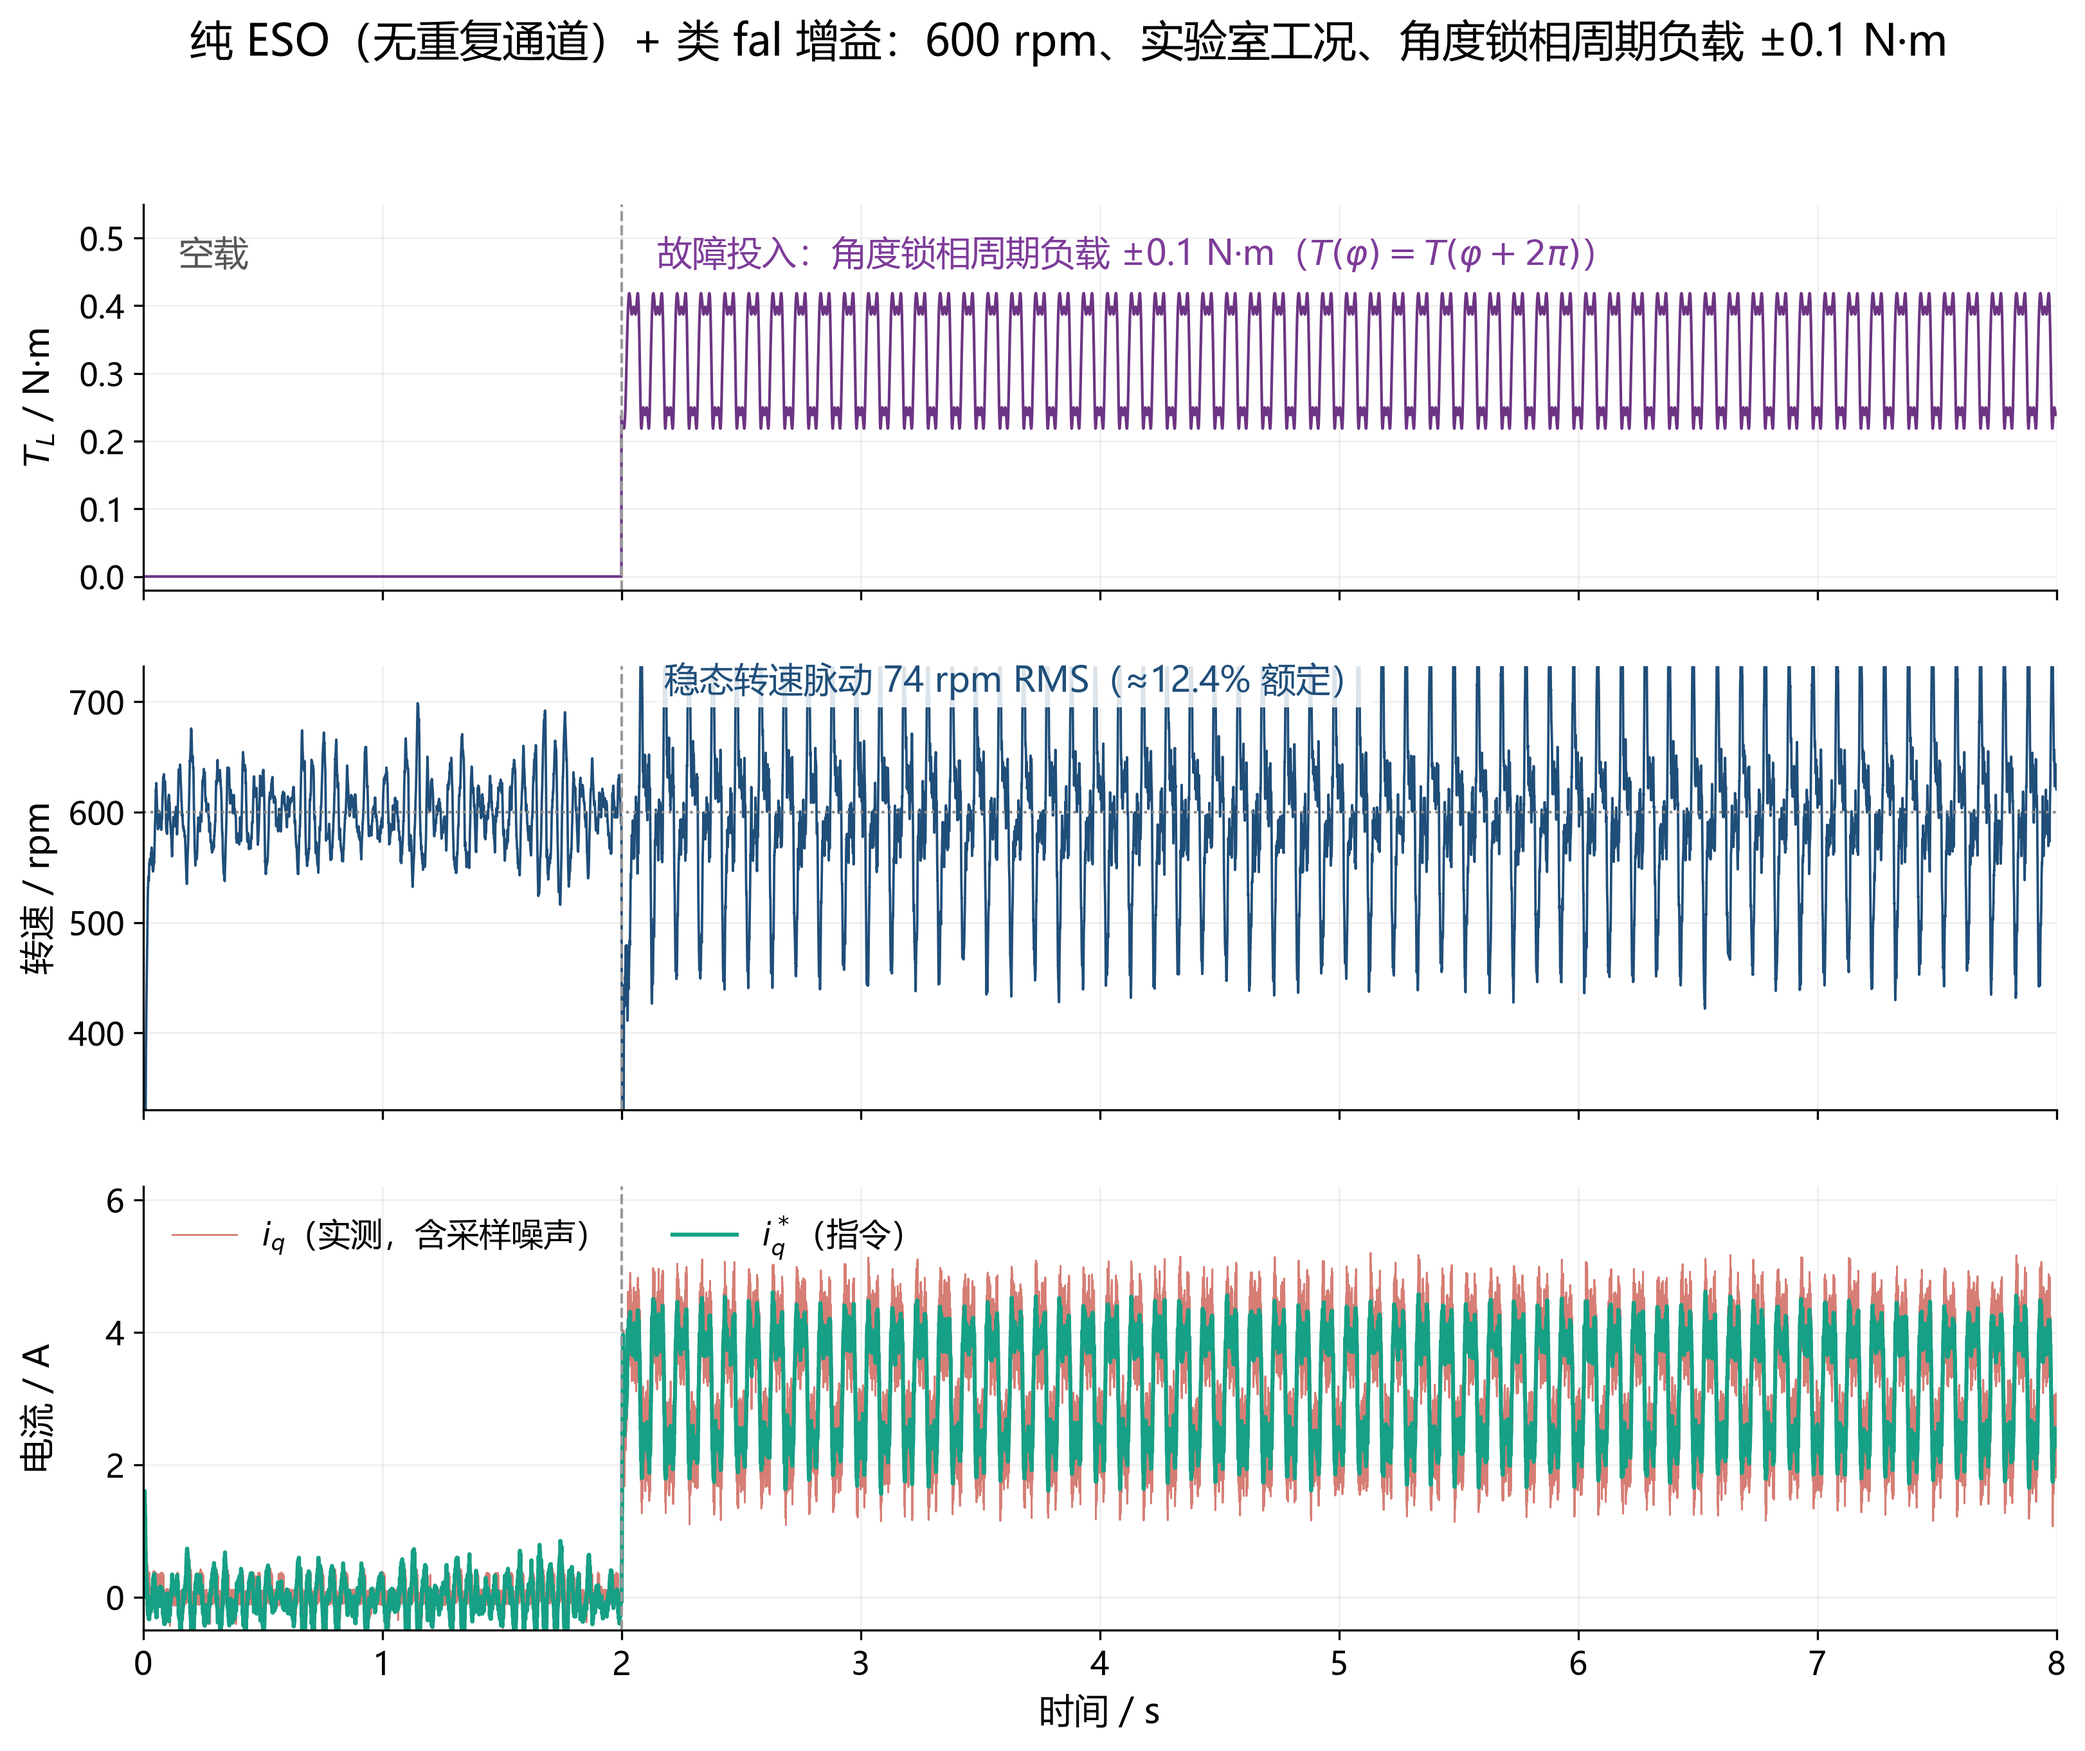
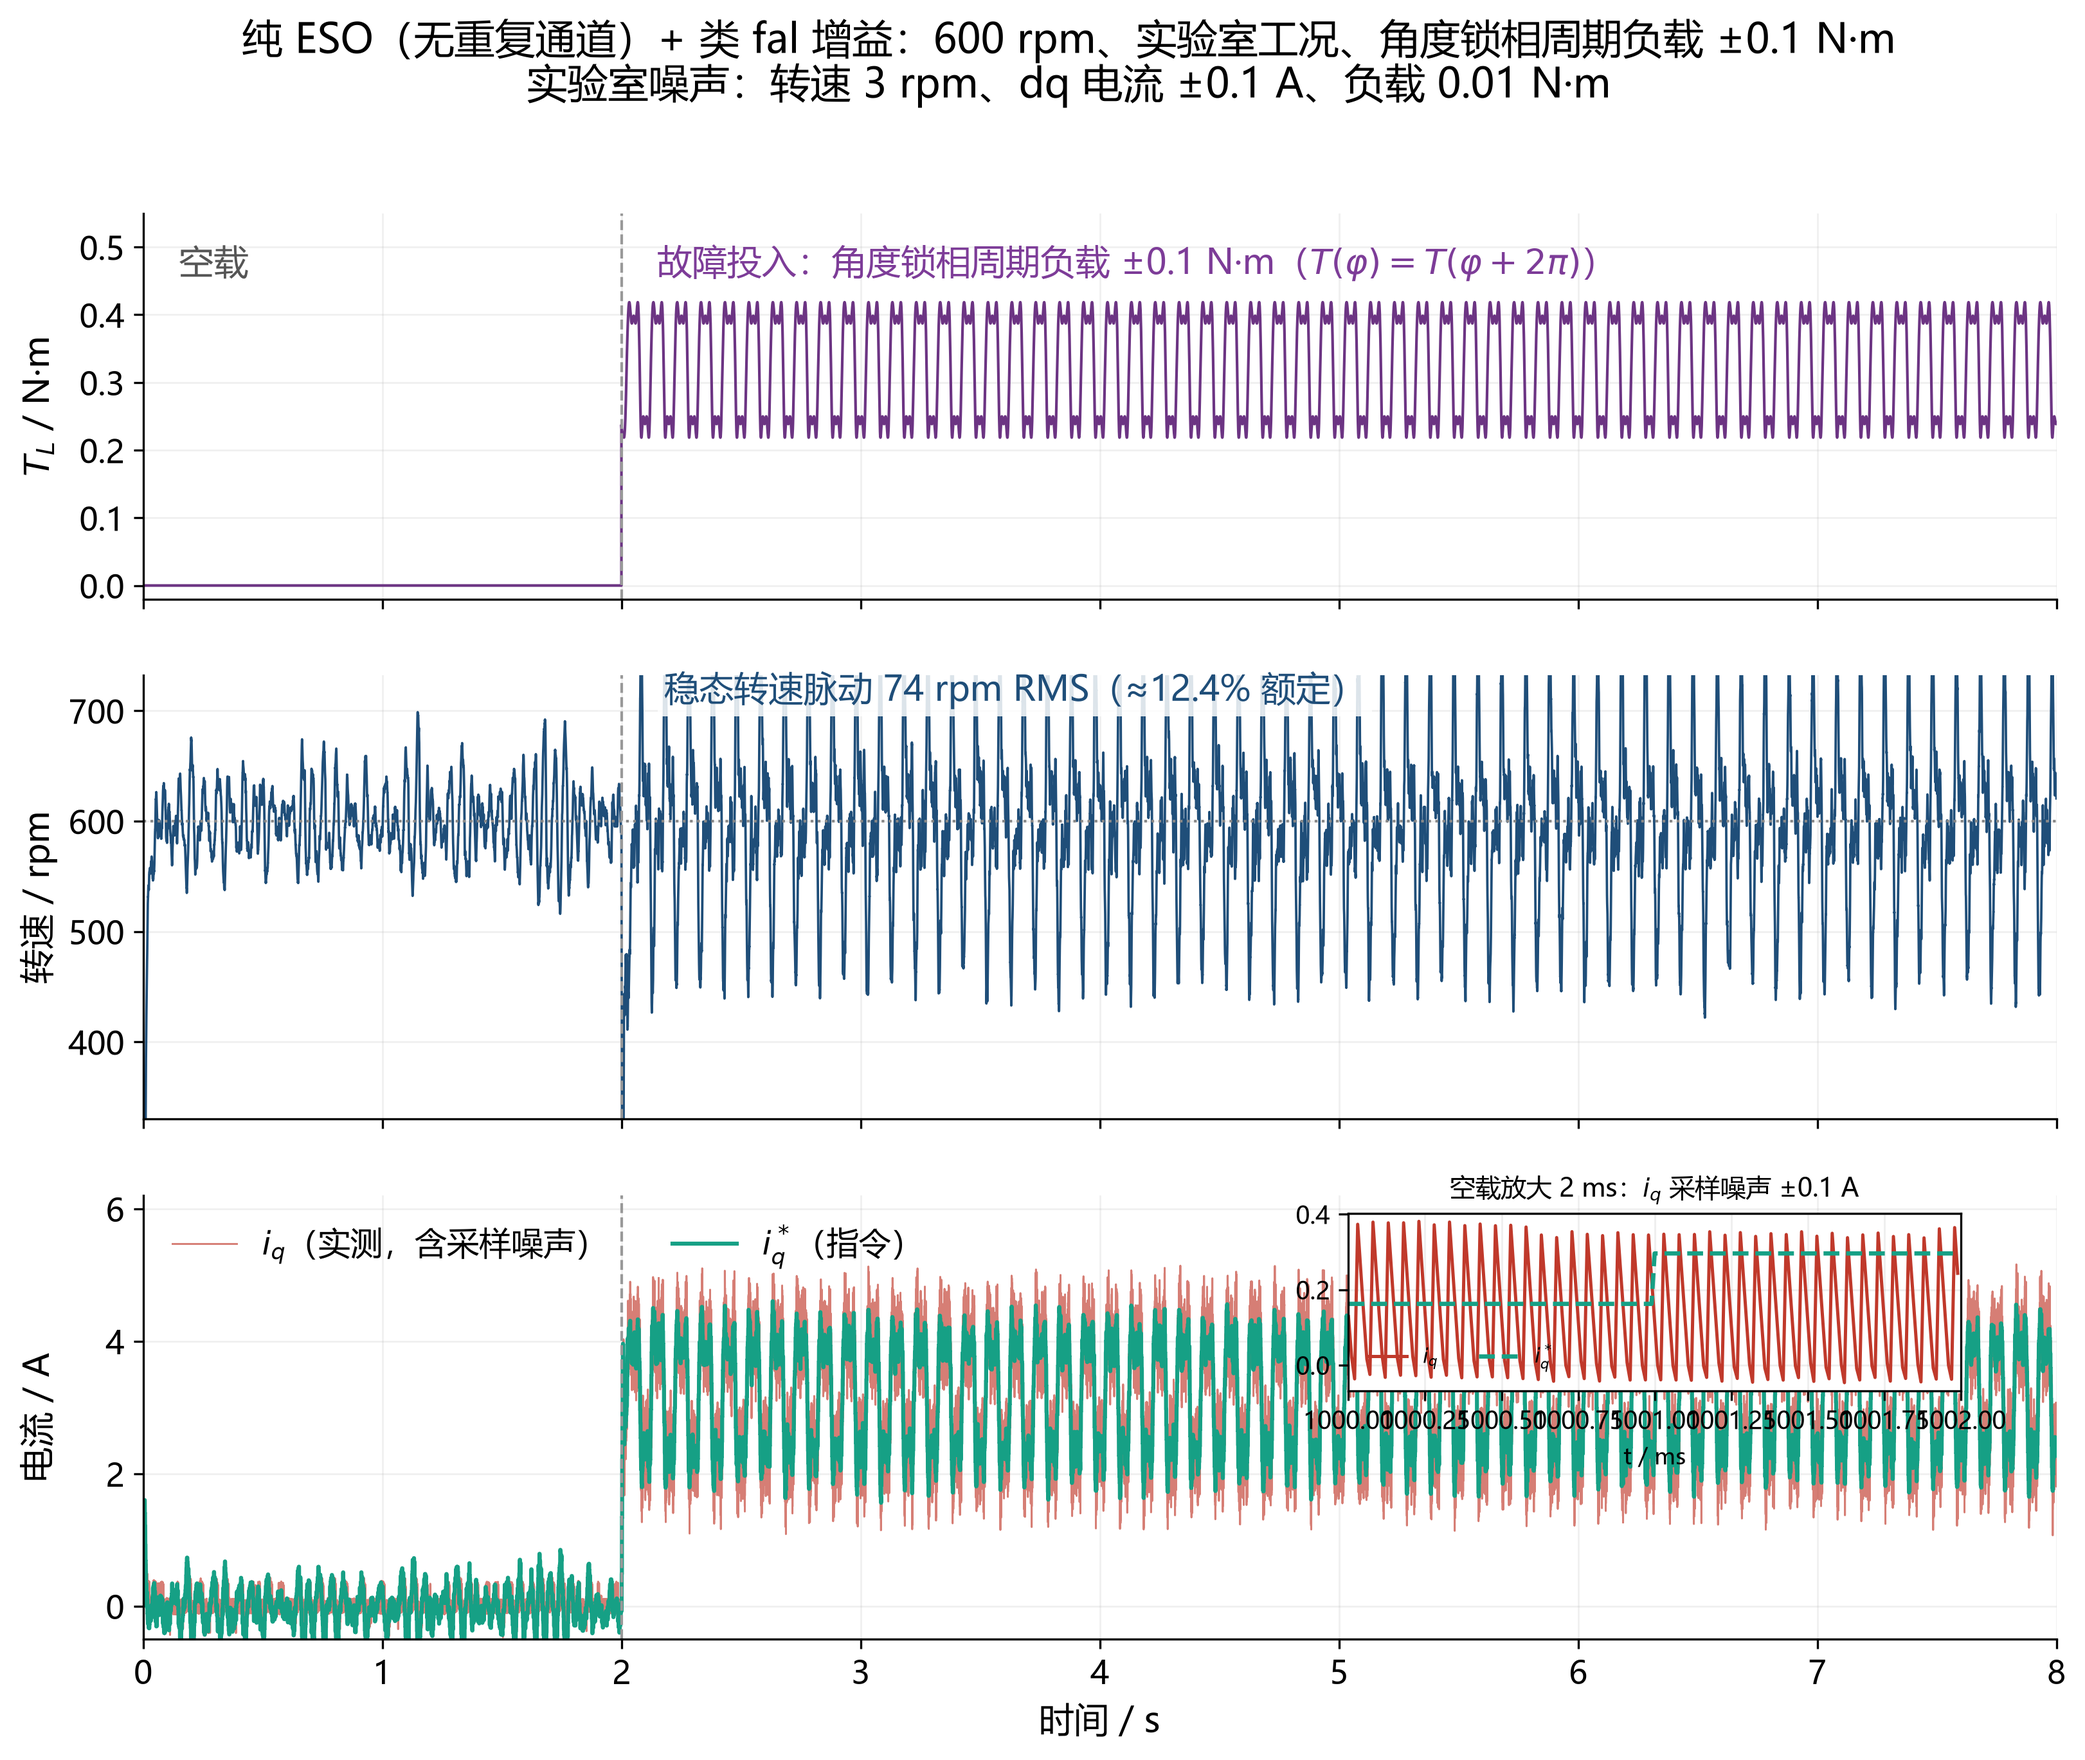
fix(ppt): 图1 标注实验室噪声口径并加 2 ms 电流噪声放大窗；记录逐噪声源分解
- 标题写明 转速 3 rpm / dq 电流 ±0.1 A / 负载 0.01 N·m

- pptfig/NOTES.md 增加逐噪声源开关的量化表（负载噪声主导空载抖动，故障脉动与噪声无关）

diff --git a/_noise_check.py b/_noise_check.py
@@ -1,0 +1,28 @@
+# -*- coding: utf-8 -*-
+"""单个噪声源的贡献分解（串行，避免 Windows spawn 的顶层 Pool 问题）"""
+import numpy as np
+from pmsm_inv_sim import sim_inv
+import noise_cfg as NC
+import run_ppt_fig1 as R
+
+print("NOISE_LAB =", NC.NOISE_LAB, flush=True)
+t = np.arange(0.0, 8.0, 2e-6)
+TL = (0.50 * (t >= 2.0)).astype(float) * 0.637
+base = dict(n_ref=600.0, T=0.1, fci=500.0, beta3=0.0, tau0=20e-3, seed_i=20261018,
+            tl_ang=R.profile_unit(), tl_ang_amp=0.1, tl_ang_start=2.0,
+            eso_law="fal", eso_a=0.75, eso_delta=0.10, eso_lam=10.0)
+cases = [("全部实验室噪声", dict(i_noise_peak=0.1, sig_n=3.0, sig_T_nm=0.01)),
+         ("无噪声", dict(i_noise_peak=0.0, sig_n=0.0, sig_T_nm=0.0)),
+         ("仅电流噪声", dict(i_noise_peak=0.1, sig_n=0.0, sig_T_nm=0.0)),
+         ("仅转速噪声", dict(i_noise_peak=0.0, sig_n=3.0, sig_T_nm=0.0)),
+         ("仅负载噪声", dict(i_noise_peak=0.0, sig_n=0.0, sig_T_nm=0.01))]
+print("%-14s %10s %10s %10s %10s" % ("配置", "空载n_rms", "空载iq_std", "故障n_rms", "iq_std"), flush=True)
+for name, nk in cases:
+    Y = sim_inv(t, TL, dict(base, **nk))
+    tt = Y["t"]; e = (Y["y"] - 1.0) * 600.0
+    m0 = (tt >= 1.0) & (tt < 2.0)
+    m1 = (tt >= 5.0) & (tt < 6.0)
+    print("%-14s %10.2f %10.3f %10.1f %10.3f" % (
+        name, float(np.sqrt(np.mean(e[m0] ** 2))), float(np.std(Y["iq"][m0])),
+        float(np.sqrt(np.mean(e[m1] ** 2))), float(np.std(Y["iq"][m1]))), flush=True)
+print("DONE", flush=True)

diff --git a/plot_ppt_fig1.py b/plot_ppt_fig1.py
@@ -63,8 +63,24 @@ ax[2].set_ylim(-0.5, 6.2)
 
 for a in ax:
     a.tick_params(labelsize=12)
-fig.suptitle("纯 ESO（无重复通道）+ 类 fal 增益：600 rpm、实验室工况、角度锁相周期负载 ±0.1 N·m",
-             fontsize=16, y=0.98)
+fig.suptitle("纯 ESO（无重复通道）+ 类 fal 增益：600 rpm、实验室工况、角度锁相周期负载 ±0.1 N·m\n"
+             "实验室噪声：转速 3 rpm、dq 电流 ±0.1 A、负载 0.01 N·m",
+             fontsize=15, y=0.985)
+
+# 第三行加一个噪声放大窗：1.00–1.06 s，看清 ±0.1 A 的采样噪声
+ins = ax[2].inset_axes([0.63, 0.56, 0.32, 0.40])
+ins.set_facecolor("white"); ins.patch.set_alpha(1.0)
+for sp in ins.spines.values():
+    sp.set_visible(True); sp.set_linewidth(0.8)
+m = (t >= 1.000) & (t < 1.002)     # 2 ms：能看清逐个采样点的噪声
+ins.plot(t[m] * 1e3, D["iq"][m], color=C_IQ, lw=1.2, label="$i_q$")
+ins.plot(t[m] * 1e3, D["iqr"][m], color=C_IQR, lw=1.6, ls="--", label="$i_q^*$")
+ins.set_xlabel("t / ms", fontsize=8.5)
+ins.set_xlim(1000.0, 1002.0)
+ins.tick_params(labelsize=9)
+ins.set_title("空载放大 2 ms：$i_q$ 采样噪声 ±0.1 A", fontsize=9.5)
+ins.legend(fontsize=7.5, loc="lower left", ncol=2, framealpha=0.9)
+ins.grid(alpha=0.2)
 fig.align_ylabels(ax)
 fig.savefig("pptfig/ppt_01_eso_fal_fault.png")
 print("ok: pptfig/ppt_01_eso_fal_fault.png")

diff --git a/pptfig/NOTES.md b/pptfig/NOTES.md
@@ -10,6 +10,18 @@
 - **参数**：β₃ = 0（重复通道关）、无律 D、无 F-B；ESO 增益类 fal。
 - **复现**：`python run_ppt_fig1.py` → `python plot_ppt_fig1.py`
 - **数据**：`_ppt_fig1.npz`、`_ppt_fig1.json`（steady_rms 74.13、iq_std 0.899、iq_max 5.28、Max|iq*| 4.61）
+- **噪声确实加了（逐源开关的量化，2026-10-23）**：
+
+| 配置 | 空载 1–2 s 转速 RMS | 空载 iq 标准差 | 故障段 5–6 s 转速 RMS |
+| --- | --- | --- | --- |
+| 全部实验室噪声 | **33.33 rpm** | 0.147 A | 74.3 rpm |
+| 无噪声 | 2.10 | 0.095 | 73.4 |
+| 仅电流噪声 ±0.1 A | 2.14 | 0.095 | 73.4 |
+| 仅转速噪声 3 rpm | 3.28 | 0.095 | 74.2 |
+| 仅负载噪声 0.01 N·m | **32.34** | 0.144 | 73.9 |
+
+  读法：三个噪声都在；**空载段的抖动主要由负载噪声贡献**（J=1.89e-5 太小、本图 β₃=0 无重复通道，
+  负载噪声只能靠 ESO+PI 带宽硬扛）；**故障段 74 rpm 的脉动与噪声无关**（无噪声 73.4，全部噪声 74.3）。
 
 ## 起步集（论文级原图，可直接用于细节页）
 
